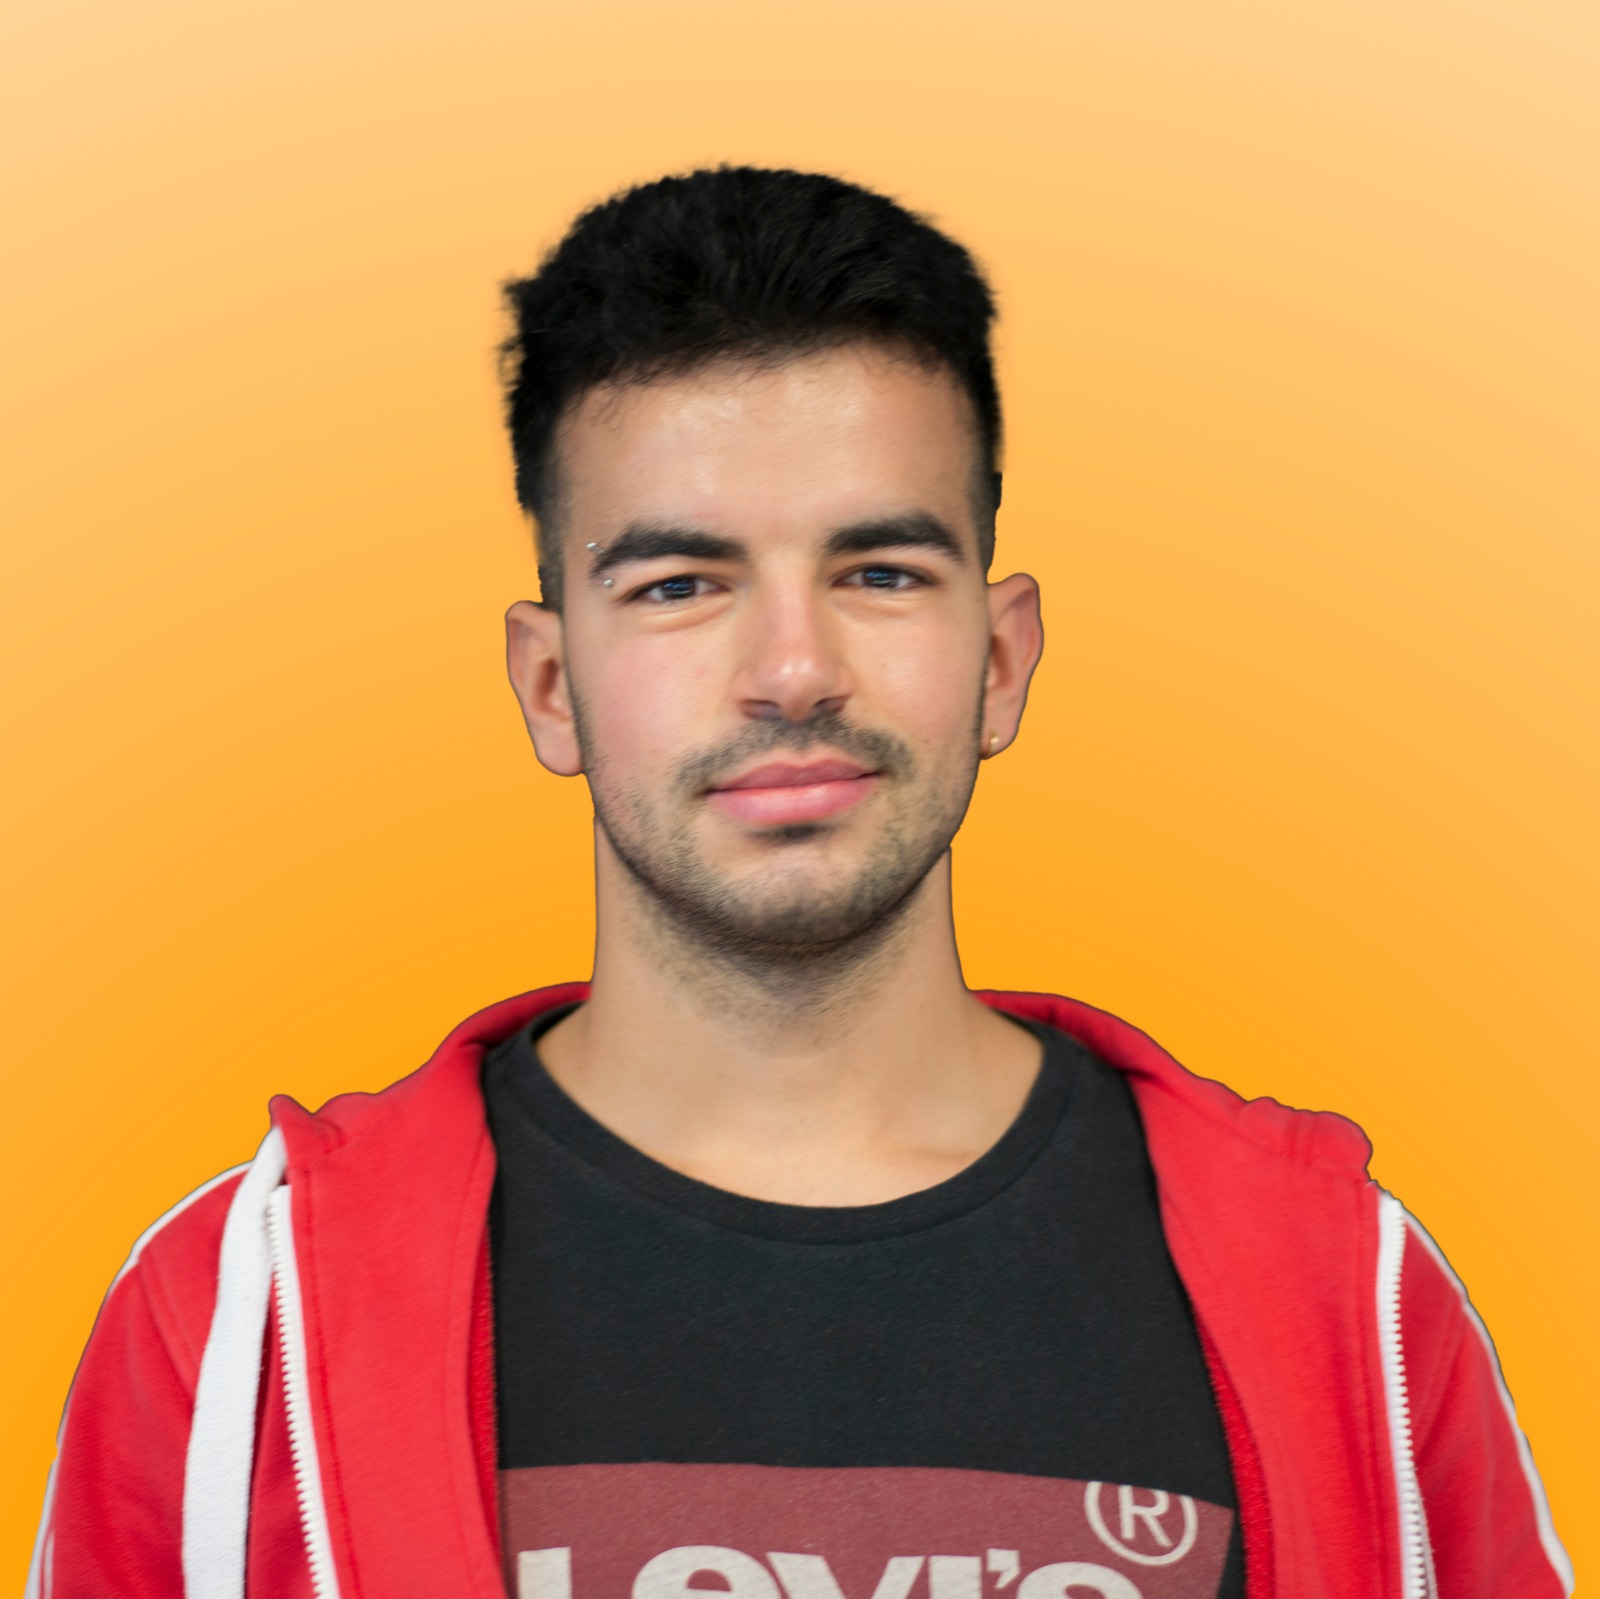
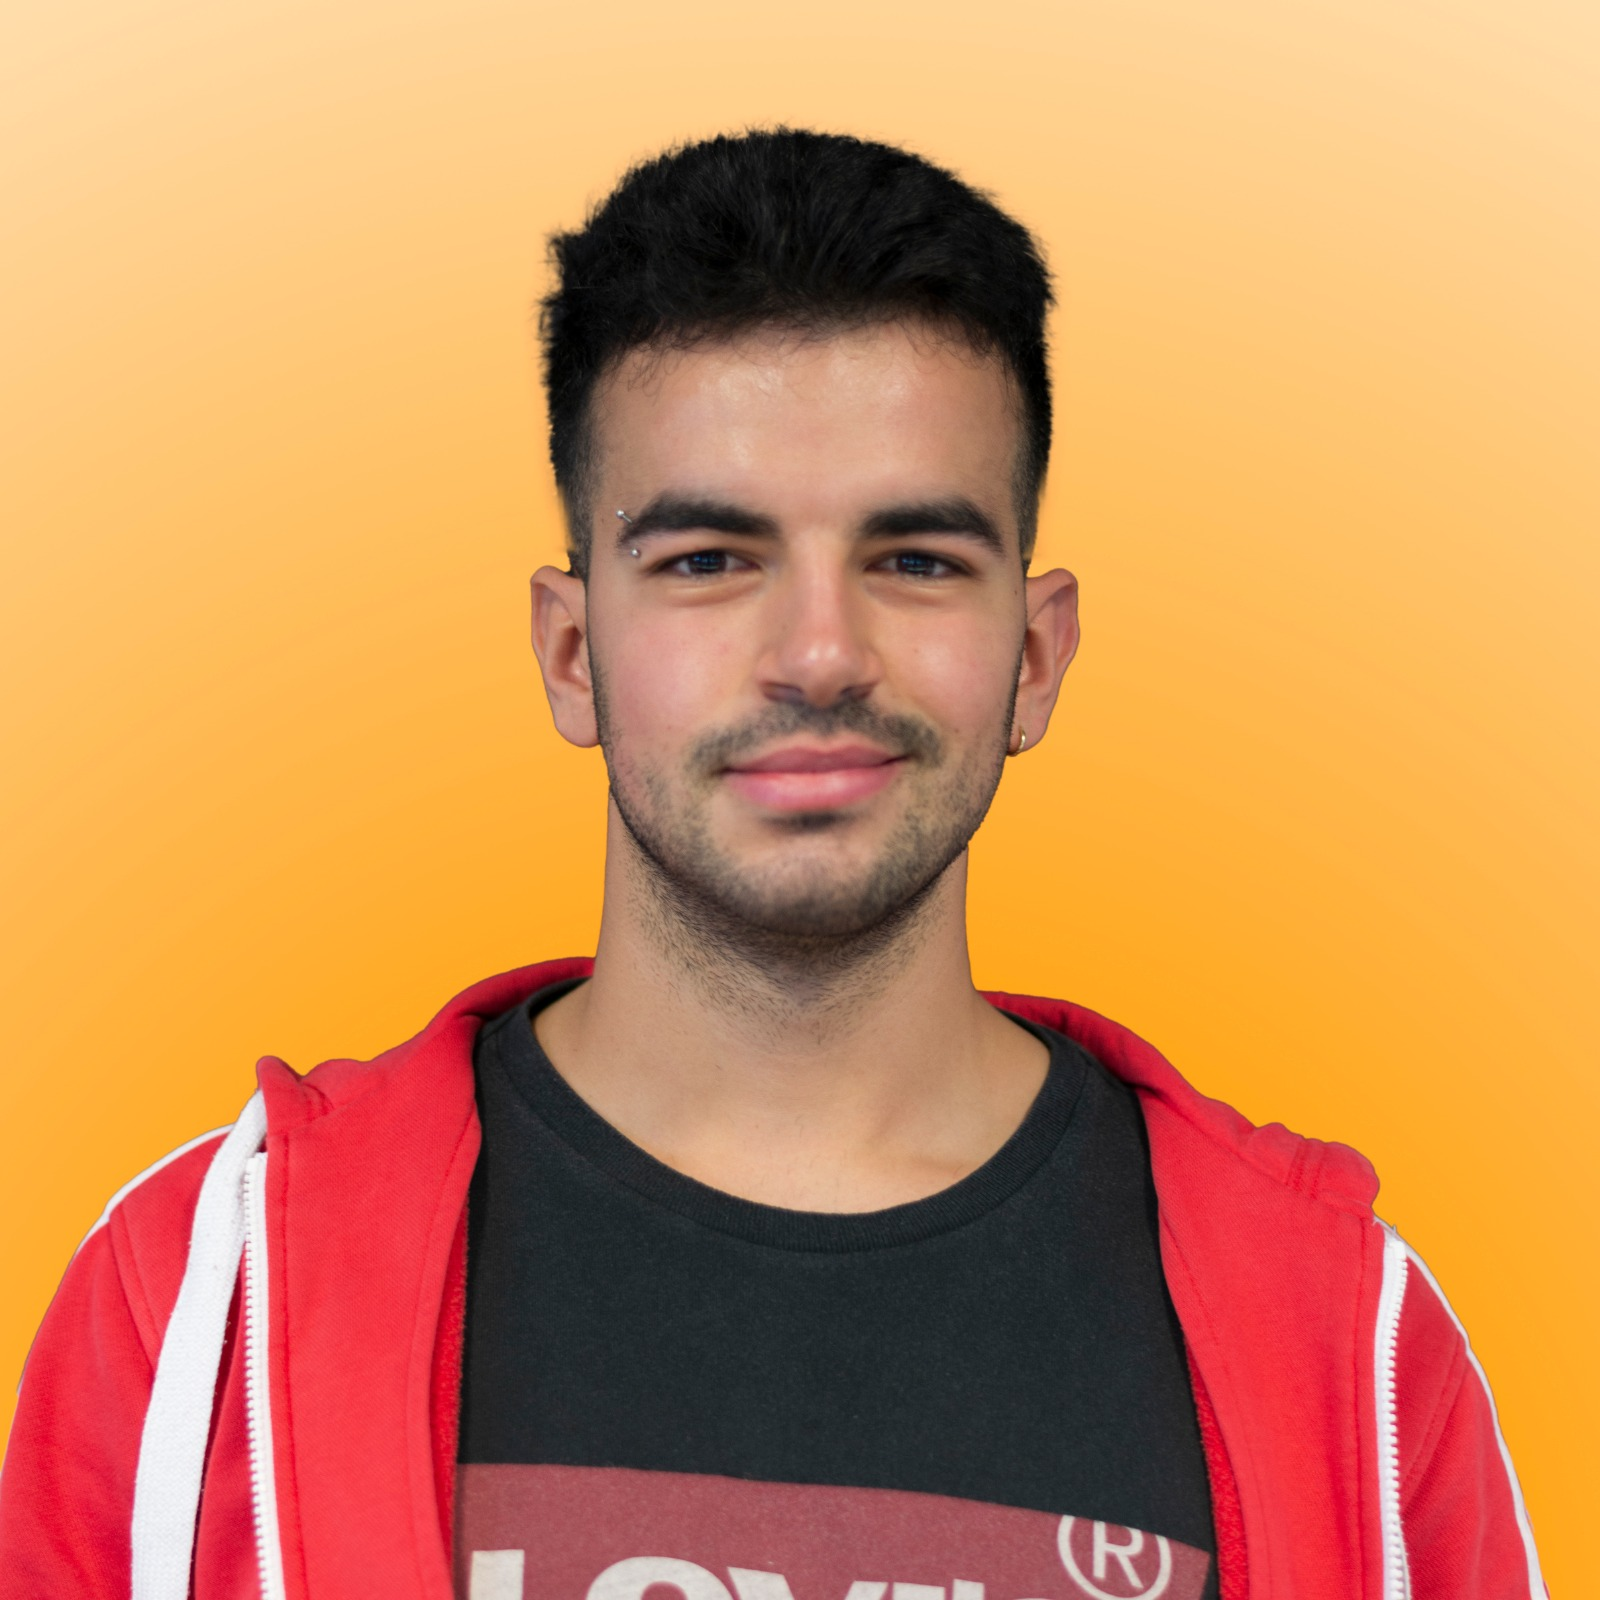
Nuove foto

diff --git a/src/components/HomePage.js b/src/components/HomePage.js
@@ -576,7 +576,7 @@ function HomePage (){
                                                     xl={3}
                                                     xs
                                                     >
-                                                        <CardDirettivo linkedin="https://www.linkedin.com/in/matteo-sacchetti-92b95218a" immagine={!isSaf ? require("../images/direttivo/giulio.webp") : require("../images/direttivo/giulio.jpeg")} nome="Matteo Sacchetti" ruolo="Co-founder" invisibile={true}/>
+                                                        <CardDirettivo linkedin="https://www.linkedin.com/in/matteo-sacchetti-92b95218a" immagine={!isSaf ? require("../images/direttivo/matteo.webp") : require("../images/direttivo/matteo.jpeg")} nome="Matteo Sacchetti" ruolo="Co-founder" invisibile={true}/>
                                                     </Grid>
                                                 </Grid>
                                             </Box>
